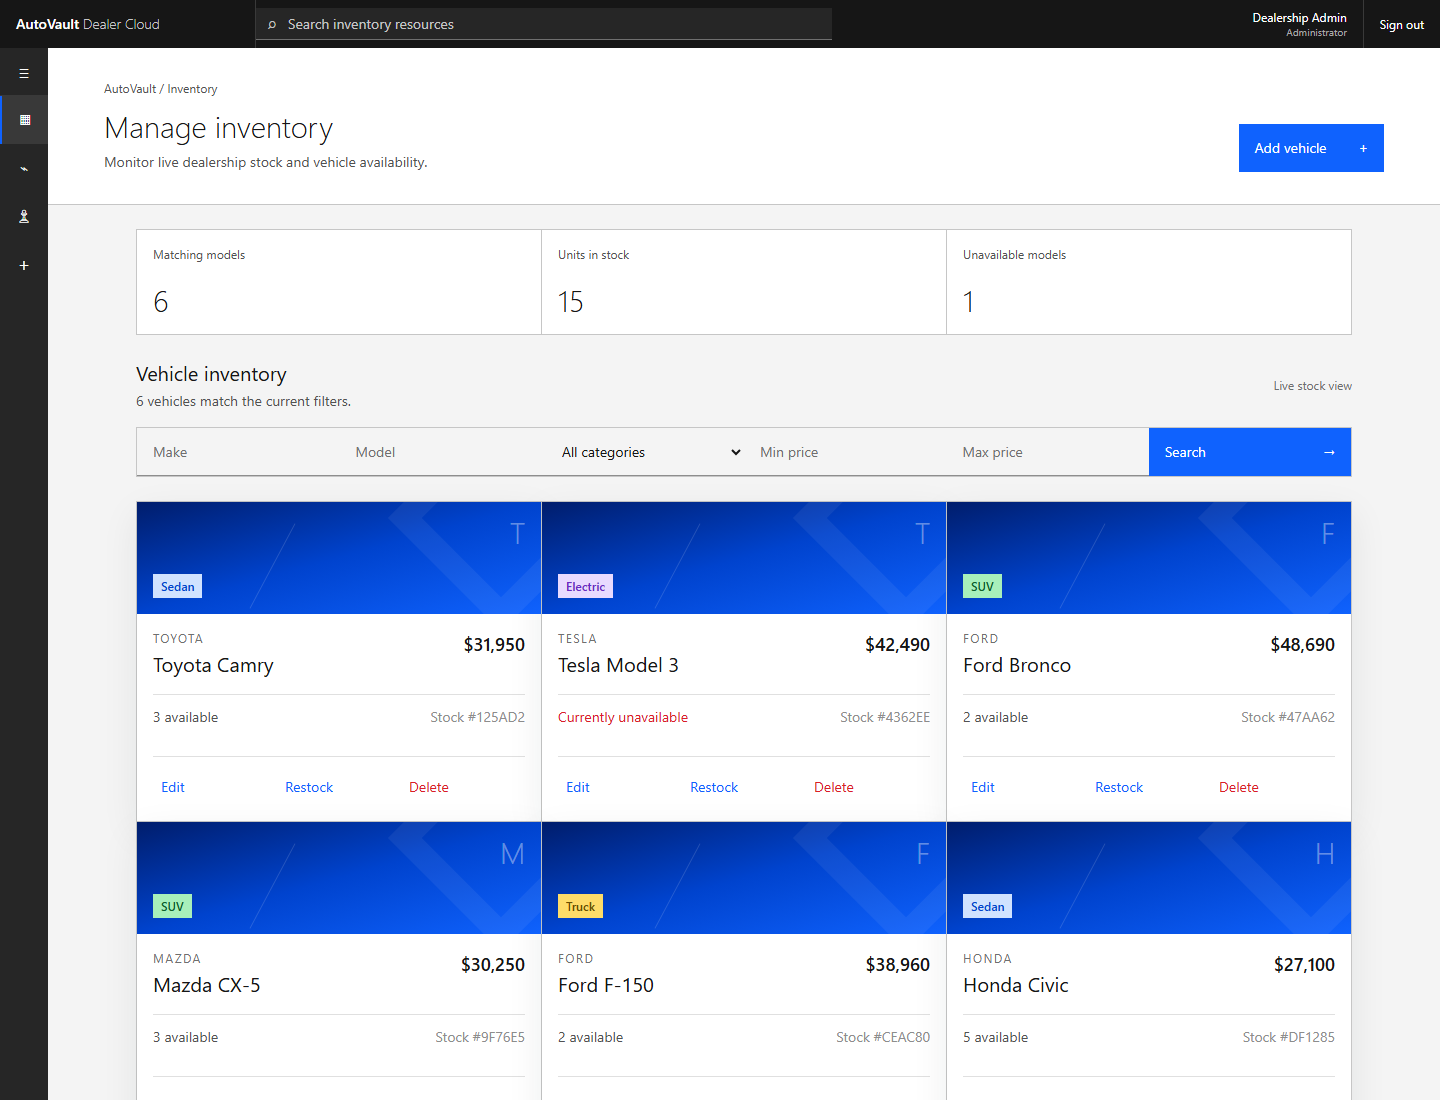
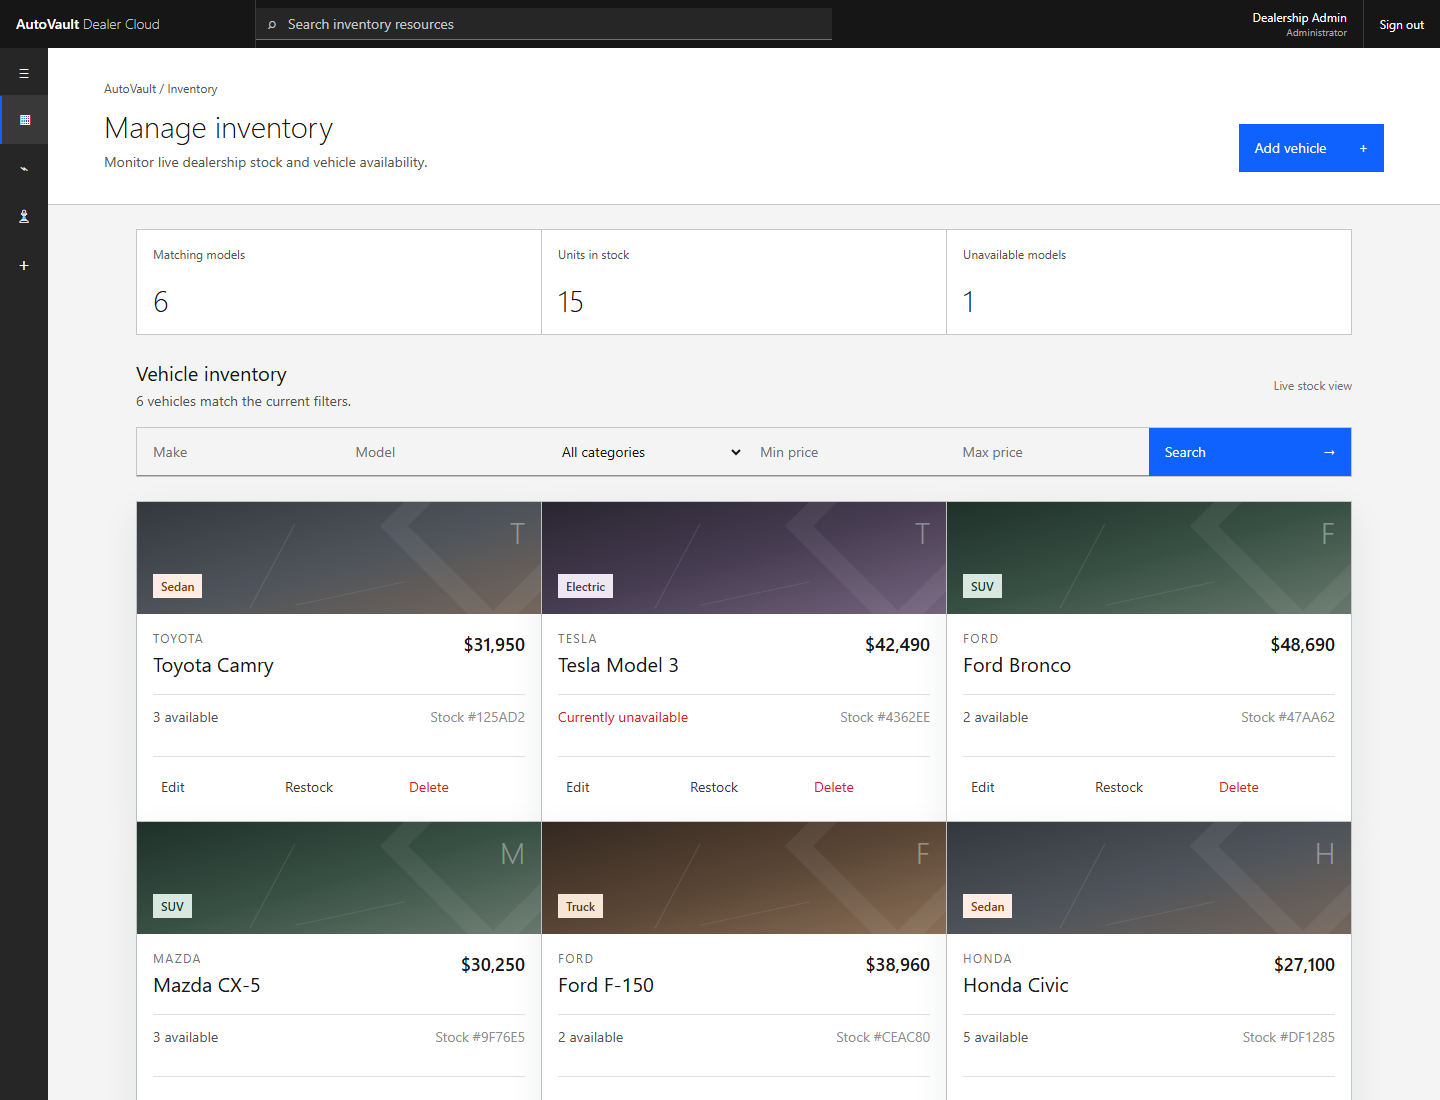
style: refine vehicle card palette
Replace bright blue vehicle panels with category-specific graphite, forest, bronze, and aubergine surfaces and charcoal actions.

Changed region(s): [[0.0938, 0.7418, 0.9375, 0.8655], [0.0938, 0.4327, 0.9375, 0.5564]]

diff --git a/client/src/components/vehicle-card.jsx b/client/src/components/vehicle-card.jsx
@@ -5,10 +5,17 @@ const money = new Intl.NumberFormat('en-US', {
 });
 
 const categoryColors = {
-  Sedan: 'bg-[#d0e2ff] text-[#0043ce]',
-  SUV: 'bg-[#a7f0ba] text-[#0e6027]',
-  Truck: 'bg-[#fddc69] text-[#684e00]',
-  Electric: 'bg-[#e8daff] text-[#6929c4]',
+  Sedan: 'bg-[#ffede5] text-[#8a3800]',
+  SUV: 'bg-[#d8e7df] text-[#18392b]',
+  Truck: 'bg-[#f6e6d5] text-[#5b3a1e]',
+  Electric: 'bg-[#eee8f2] text-[#493653]',
+};
+
+const categorySurfaces = {
+  Sedan: 'from-[#34383d] via-[#4d535a] to-[#75665b]',
+  SUV: 'from-[#1f3029] via-[#385044] to-[#68786c]',
+  Truck: 'from-[#332820] via-[#594535] to-[#8a7058]',
+  Electric: 'from-[#292530] via-[#473d52] to-[#74647d]',
 };
 
 export function VehicleCard({
@@ -22,13 +29,15 @@ export function VehicleCard({
 }) {
   const soldOut = vehicle.quantity === 0;
   const badge = categoryColors[vehicle.category] || 'bg-stone-100 text-stone-700';
+  const surface = categorySurfaces[vehicle.category] || 'from-[#262626] via-[#525252] to-[#6f6f6f]';
 
   return (
     <article className="group flex min-h-[320px] flex-col border-b border-r border-[#c6c6c6] bg-white shadow-card transition hover:bg-[#f8f8f8]">
-      <div className="relative flex h-28 items-end overflow-hidden bg-gradient-to-br from-[#001d6c] via-[#0043ce] to-[#0f62fe] p-4">
+      <div className={`relative flex h-28 items-end overflow-hidden bg-gradient-to-br ${surface} p-4`}>
         <div className="absolute inset-0 opacity-30" aria-hidden="true">
-          <div className="absolute -right-10 -top-16 h-40 w-40 rotate-45 border-[24px] border-white/20" />
-          <div className="absolute bottom-0 left-1/3 h-24 w-px rotate-[28deg] bg-white/50" />
+          <div className="absolute -right-8 -top-14 h-40 w-40 rotate-45 border-[20px] border-white/20" />
+          <div className="absolute bottom-0 left-1/3 h-24 w-px rotate-[28deg] bg-white/40" />
+          <div className="absolute bottom-5 right-1/3 h-px w-28 -rotate-12 bg-white/30" />
         </div>
         <span className={`relative px-2 py-1 text-xs font-medium ${badge}`}>{vehicle.category}</span>
         <div className="absolute right-4 top-3 text-3xl font-light text-white/40" aria-hidden="true">{vehicle.make.slice(0, 1)}</div>
@@ -52,15 +61,15 @@ export function VehicleCard({
 
         {isAdmin ? (
           <div className="mt-auto grid grid-cols-3 border-t border-[#e0e0e0] pt-3">
-            <button className="px-2 py-2 text-left text-sm text-[#0f62fe] hover:bg-[#e8f1ff]" onClick={() => onEdit(vehicle)}>Edit</button>
-            <button className="px-2 py-2 text-left text-sm text-[#0f62fe] hover:bg-[#e8f1ff]" onClick={() => onRestock(vehicle)}>Restock</button>
+            <button className="px-2 py-2 text-left text-sm text-[#393939] hover:bg-[#e8e8e8]" onClick={() => onEdit(vehicle)}>Edit</button>
+            <button className="px-2 py-2 text-left text-sm text-[#393939] hover:bg-[#e8e8e8]" onClick={() => onRestock(vehicle)}>Restock</button>
             <button className="px-2 py-2 text-left text-sm text-[#da1e28] hover:bg-[#fff1f1]" onClick={() => onDelete(vehicle)}>
               Delete
             </button>
           </div>
         ) : (
           <button
-            className="button-primary mt-auto w-full"
+            className="mt-auto inline-flex min-h-12 w-full items-center justify-between bg-[#262626] px-4 py-3 text-sm text-white transition hover:bg-[#004144] focus:outline-none focus:ring-2 focus:ring-[#007d79] focus:ring-offset-2 disabled:cursor-not-allowed disabled:bg-[#c6c6c6] disabled:text-[#8d8d8d]"
             disabled={soldOut || purchasing}
             onClick={() => onPurchase(vehicle.id)}
             aria-label={soldOut ? 'Out of stock' : `Purchase ${vehicle.make} ${vehicle.model}`}
